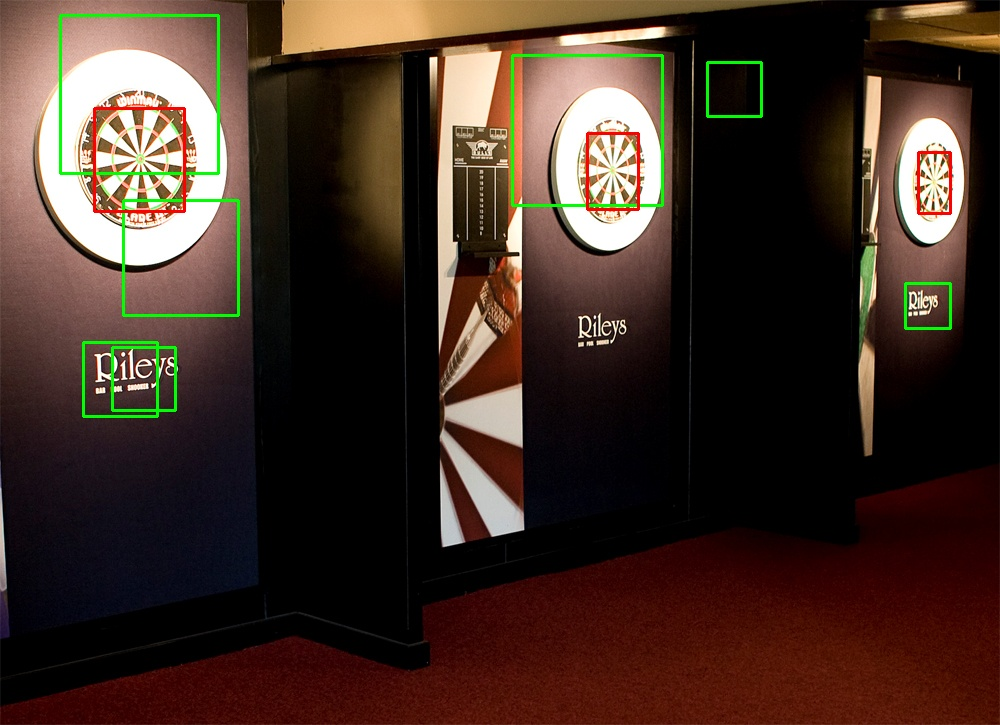
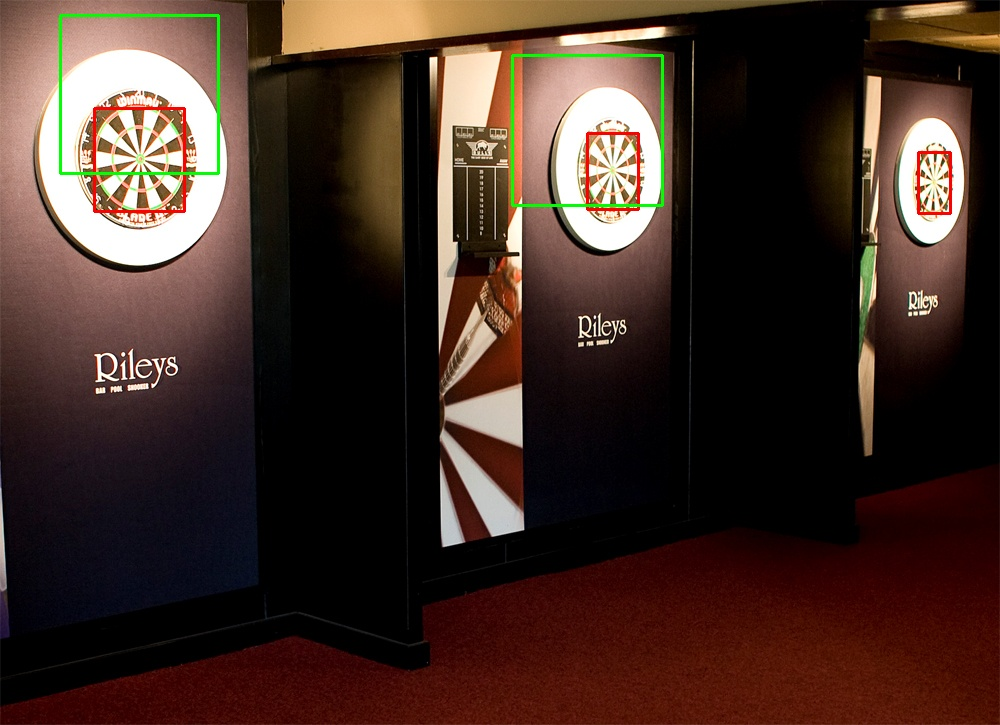
finish subtask2

diff --git a/DartboardDetector.py b/DartboardDetector.py
@@ -2,7 +2,8 @@ import cv2
 import os
 import numpy as np
 
-# The following part is using Lab3 code that i have implemented, to achieve hough transform
+# The following part is using Lab3 code that I have implemented, to achieve hough transform
+
 # Sobel's kernels
 # for derivative in the x direction
 derivativeInX = np.array([
@@ -223,21 +224,21 @@ def detect_and_display(image, ground_truth, model, image_name, output_path):
     # Combine evidence from both methods
     combined_detections = combine_evidence(dartboards_vj, circle_centers)
 
-    # Draw rectangles around the detected dartboards (in green)
-    for (x, y, w, h) in dartboards_vj:
-        cv2.rectangle(image, (x, y), (x+w, y+h), (0, 255, 0), 2)
+    # # Draw rectangles around the detected dartboards (in Yellow)
+    # for (x, y, w, h) in dartboards_vj:
+    #     cv2.rectangle(image, (x, y), (x+w, y+h), (0, 255, 255), 2)  # Yellow
 
     # Draw ground truth bounding boxes (in red)
     for (x, y, w, h) in ground_truth:
         cv2.rectangle(image, (x, y), (x+w, y+h), (0, 0, 255), 2)
 
-    # Draw circles for Hough detections (in Blue)
-    for (y0, x0, r) in circle_centers:
-        cv2.circle(image, (x0, y0), r, (255, 0, 0), 2)  # Blue
+    # # Draw circles for Hough detections (in Blue)
+    # for (y0, x0, r) in circle_centers:
+    #     cv2.circle(image, (x0, y0), r, (255, 0, 0), 2)  # Blue
 
-    # Draw rectangles around combined detections (in Yellow)
+    # Draw rectangles around combined detections (in green)
     for (x, y, w, h) in combined_detections:
-        cv2.rectangle(image, (x, y), (x+w, y+h), (0, 255, 255), 2)  # Yellow
+        cv2.rectangle(image, (x, y), (x+w, y+h), (0, 255, 0), 2)
 
     # Evaluate detections and get performance metrics
     TPR, F1 = evaluate_detections(combined_detections, ground_truth)

diff --git a/hough.py b/hough.py
@@ -1,8 +1,8 @@
 import cv2
 import numpy as np
 
-image = cv2.imread("Dartboard/dart0.jpg", cv2.IMREAD_GRAYSCALE)
-color_image = cv2.imread("Dartboard/dart0.jpg", cv2.IMREAD_COLOR)
+image = cv2.imread("Dartboard/dart11.jpg", cv2.IMREAD_GRAYSCALE)
+color_image = cv2.imread("Dartboard/dart11.jpg", cv2.IMREAD_COLOR)
 
 # Sobel's kernels
 # for derivative in the x direction
@@ -112,8 +112,10 @@ def hough(binary_image, gradient_direction, min_radius, max_radius, threshold):
 def display_hough_space(hough_space):
     hough_2d = np.sum(hough_space, axis=2)
     hough_2d = (255 * (hough_2d / np.max(hough_2d))).astype(np.uint8)  # Normalization to [0, 255]
-    hough_display = cv2.applyColorMap(hough_2d, cv2.COLORMAP_JET)  # Using a colormap for better visualization
-    cv2.imshow('Hough Space', hough_display)
+    # hough_display = cv2.applyColorMap(hough_2d, cv2.COLORMAP_JET)  # Using a colormap for better visualization
+    # cv2.imshow('Hough Space', hough_display)
+    cv2.imshow('Hough Space', hough_2d)
+
 
 def draw_circles(image, circle_centers, min_radius):
     output = image.copy()
